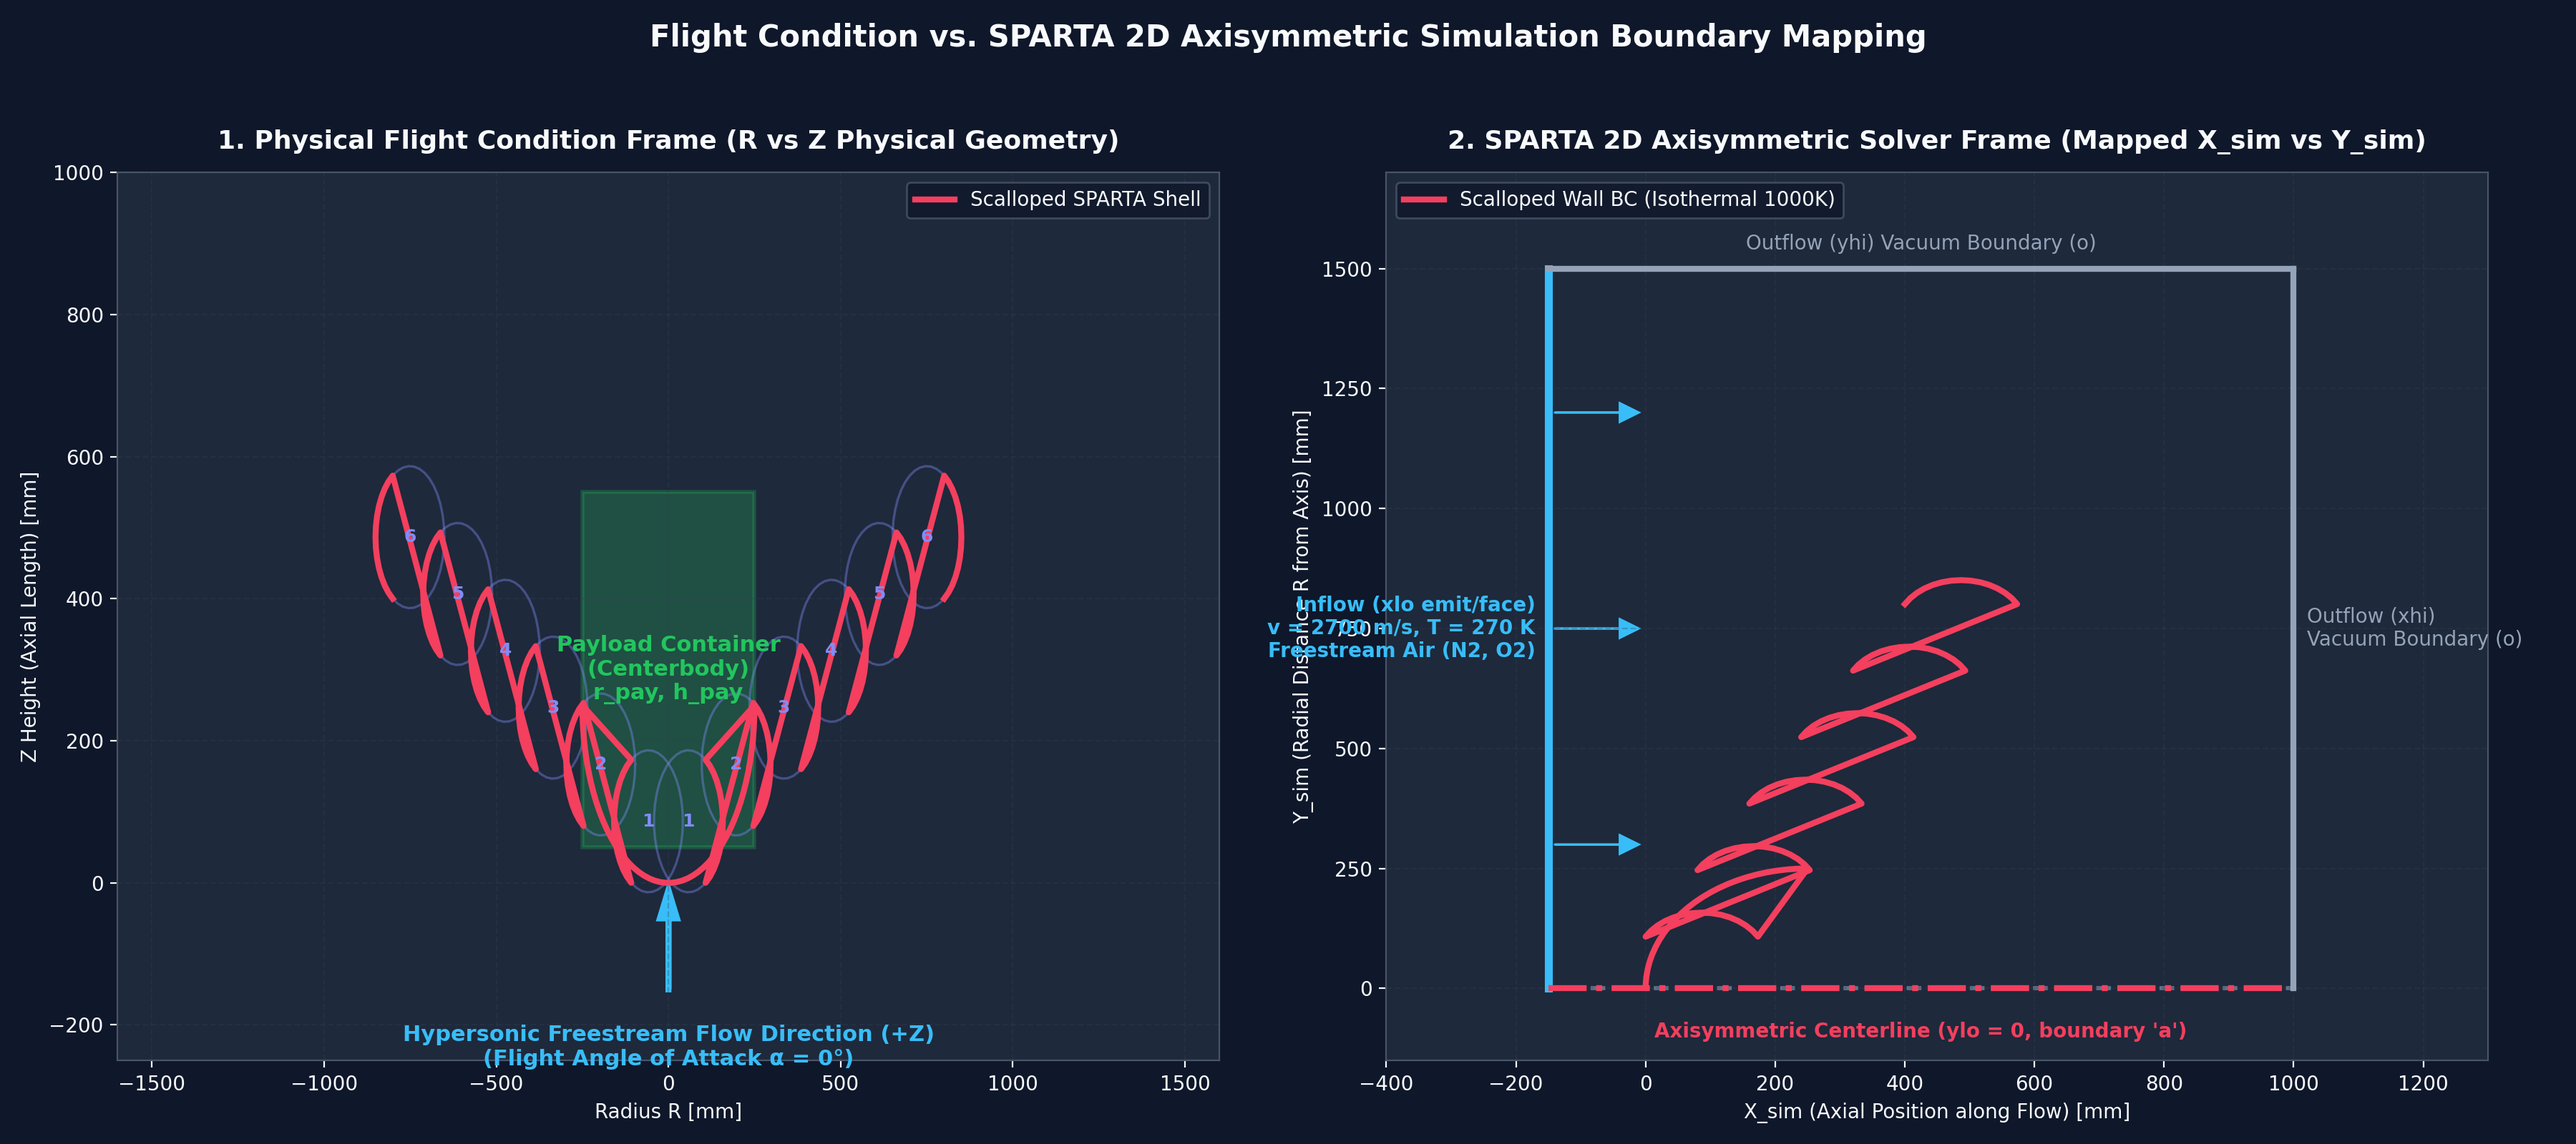
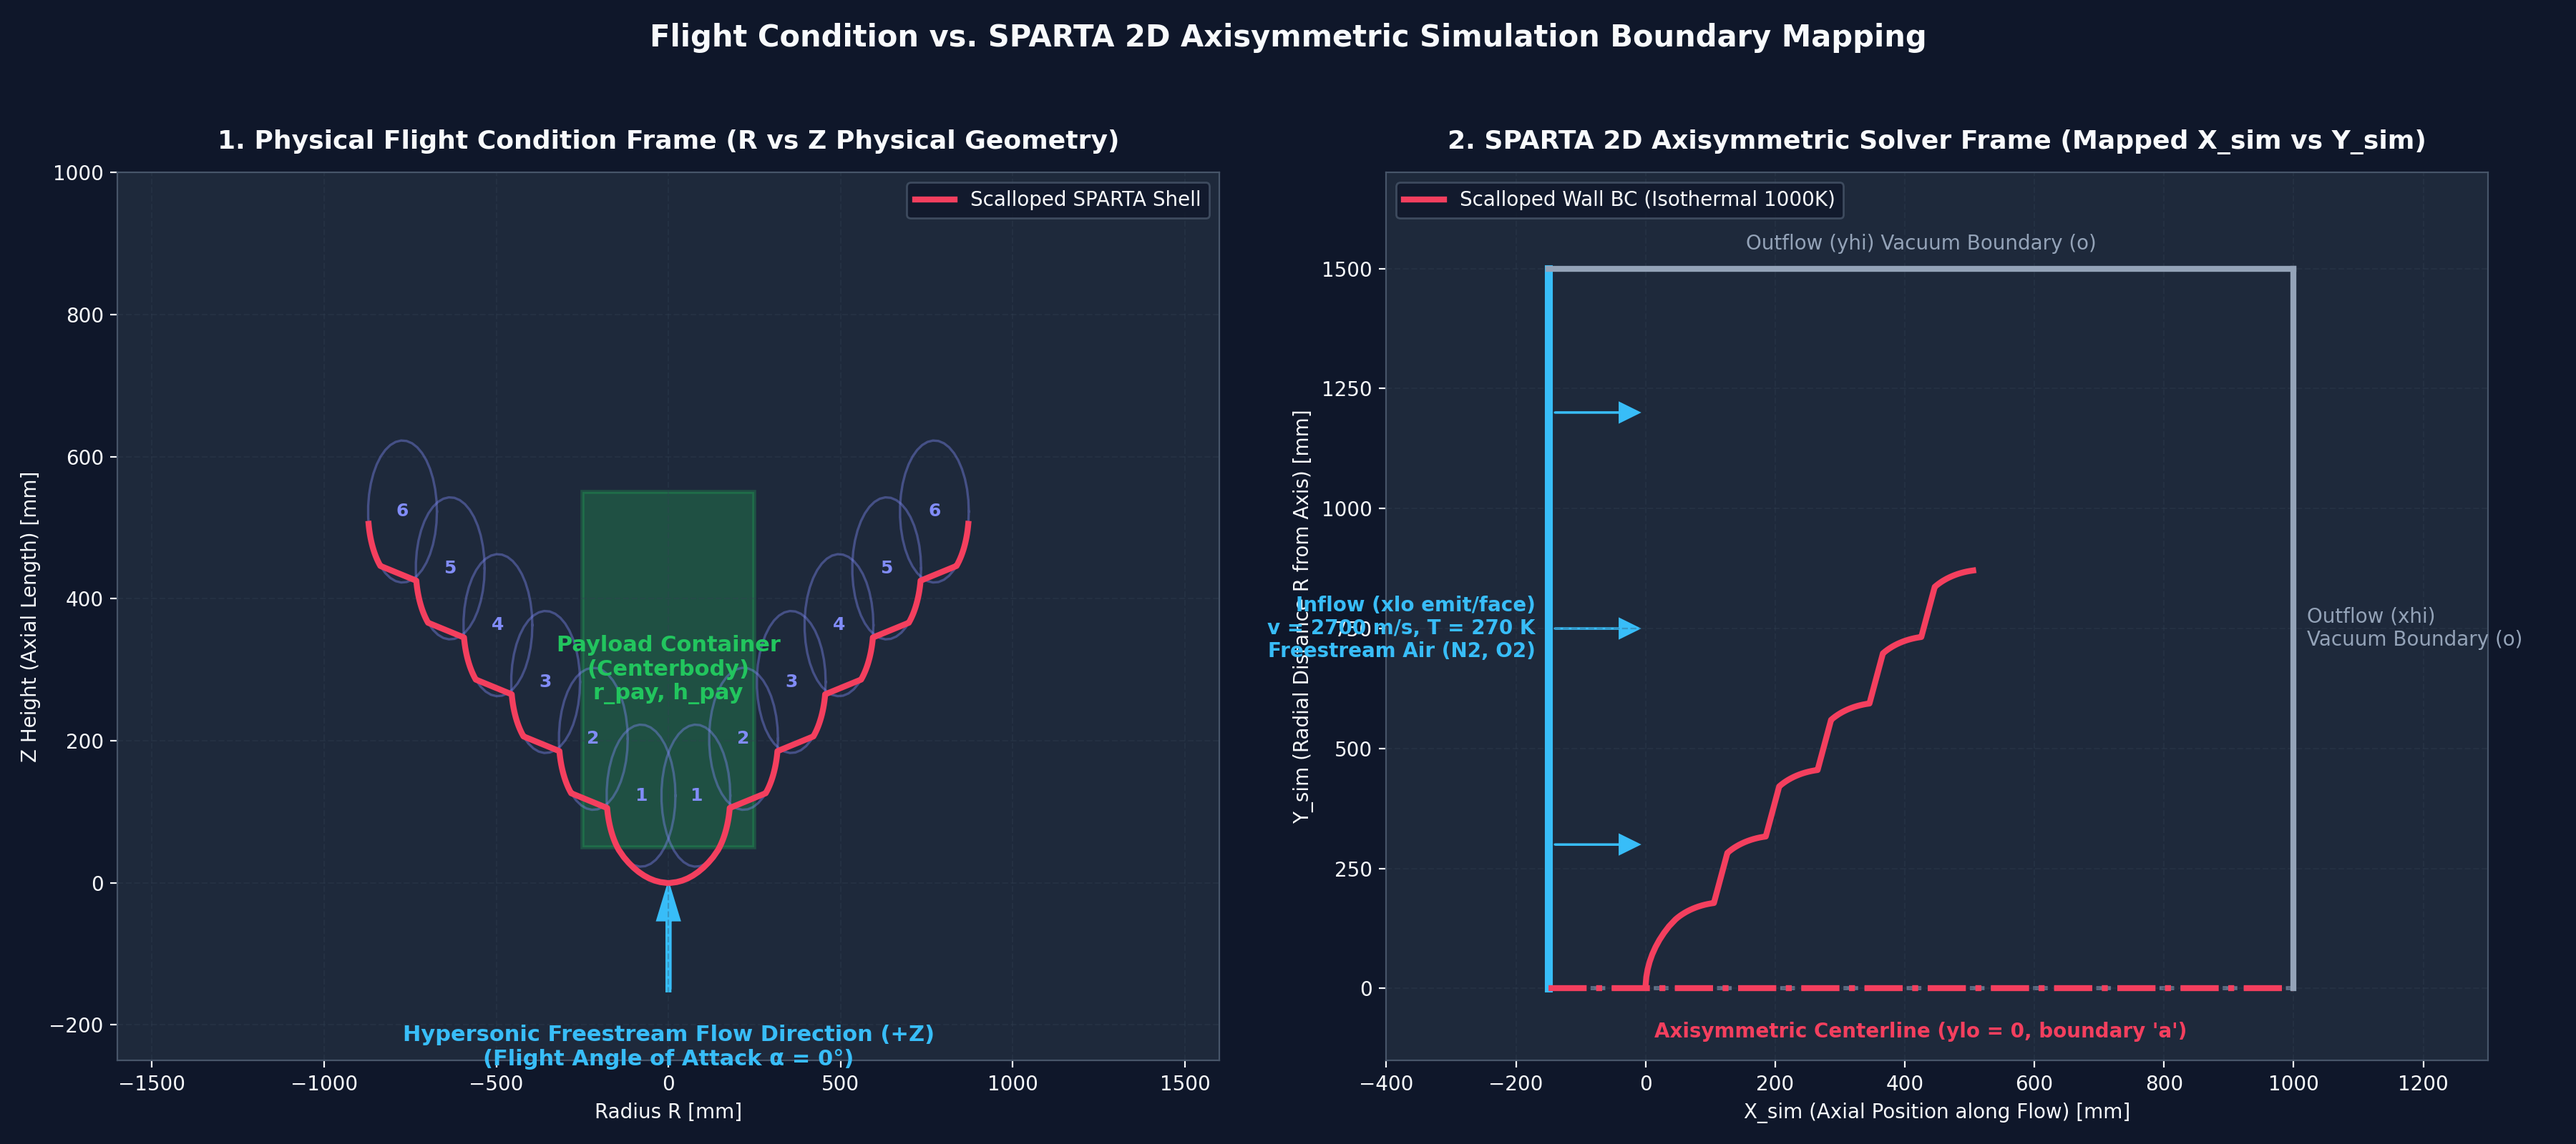
Fix geometry math in boundary condition and coordinate mapping plots

Changed region(s): [[0.1244, 0.4062, 0.3733, 0.7812], [0.6533, 0.5, 0.7778, 0.8125]]

diff --git a/create_flight_vs_sim_bc_plot.py b/create_flight_vs_sim_bc_plot.py
@@ -38,18 +38,26 @@ def generate_flight_vs_sim_plot():
     z_nose = r_nose * (1 - np.cos(beta))
     r_nose_pts = r_nose * np.sin(beta)
 
-    # Scalloped Toroids
-    z_shell = list(z_nose[25:])
-    r_shell = list(r_nose_pts[25:])
+    # The cone generator is at 30 deg from horizontal (R-axis). 
+    # Therefore, tangency point on the nose sphere is exactly at beta = 30 deg (pi/6).
+    tangency_beta = np.pi/6
+    beta_half = beta[25:]
+    tangency_idx = np.argmin(np.abs(beta_half - tangency_beta))
 
-    # Generate 6 toroids along cone angle
-    r_curr = r_nose_pts[25]
-    z_curr = z_nose[25]
+    # [FIX]: Stop the nose shell exactly at the tangency point instead of drawing 
+    # it all the way to 90 degrees (which caused it to overlap Toroid 1).
+    z_shell = list(z_nose[25: 25 + tangency_idx + 1])
+    r_shell = list(r_nose_pts[25: 25 + tangency_idx + 1])
+
+    # [FIX]: Generate 6 toroids starting AT the tangency point, not at the nose tip (0,0).
+    r_curr = r_shell[-1]
+    z_curr = z_shell[-1]
 
     for i in range(1, t_count + 1):
-        # Torus center
-        cx = r_curr + r_torus * np.cos(theta_c)
-        cz = z_curr + r_torus * np.sin(theta_c)
+        # [FIX]: Shift the toroid center INWARD from the tangency point. 
+        # The inward normal points UP and LEFT (120 deg from R-axis, or 30 deg from Z-axis).
+        cx = r_curr - r_torus * np.sin(np.pi/6)
+        cz = z_curr + r_torus * np.cos(np.pi/6)
         
         # Circle for torus
         angles = np.linspace(0, 2*np.pi, 40)
@@ -58,13 +66,18 @@ def generate_flight_vs_sim_plot():
         ax1.text(cx, cz, str(i), color='#818cf8', fontsize=9, fontweight='bold', ha='center', va='center')
         ax1.text(-cx, cz, str(i), color='#818cf8', fontsize=9, fontweight='bold', ha='center', va='center')
 
-        # Wavy shell curve over torus
-        arc_angles = np.linspace(-np.pi/3, np.pi/3, 15)
+        # Wavy shell curve over torus (scalloped F-TPS)
+        # The toroid normal facing outward is theta_c - 90 deg (since it's placed outwards)
+        outward_normal = theta_c - np.pi/2
+        scallop_half_angle = np.radians(20)
+        arc_angles = np.linspace(outward_normal - scallop_half_angle, outward_normal + scallop_half_angle, 15)
+        
         arc_r = cx + r_torus * np.cos(arc_angles)
-        arc_z = cz - r_torus * np.sin(arc_angles)
+        arc_z = cz + r_torus * np.sin(arc_angles)
         z_shell.extend(arc_z)
         r_shell.extend(arc_r)
 
+        # Move to next tangency point (along the cone generator)
         r_curr += 1.6 * r_torus * np.sin(theta_c)
         z_curr += 1.6 * r_torus * np.cos(theta_c)
 

diff --git a/create_bc_plot.py b/create_bc_plot.py
@@ -42,7 +42,10 @@ theta_c = np.radians(60)
 # vehicle must be oriented with its nose pointing LEFT, facing the inflow!
 # Nose center at (3.5, 0). Tip is placed at (3.5 - 0.8 = 2.7, 0)
 nose_cx, nose_cy = 3.5, 0.0
-angles = np.linspace(np.pi, np.pi - theta_c, 30)
+# True tangency angle: the normal to the cone is at 90 + theta_c.
+# Wait, if cone angle is theta_c=60 from horizontal, normal is 150 deg (pi/2 + theta_c).
+tangency_angle = np.pi/2 + theta_c
+angles = np.linspace(np.pi, tangency_angle, 30)
 x_nose = nose_cx + R_n_vis * np.cos(angles)
 y_nose = nose_cy + R_n_vis * np.sin(angles)
 
